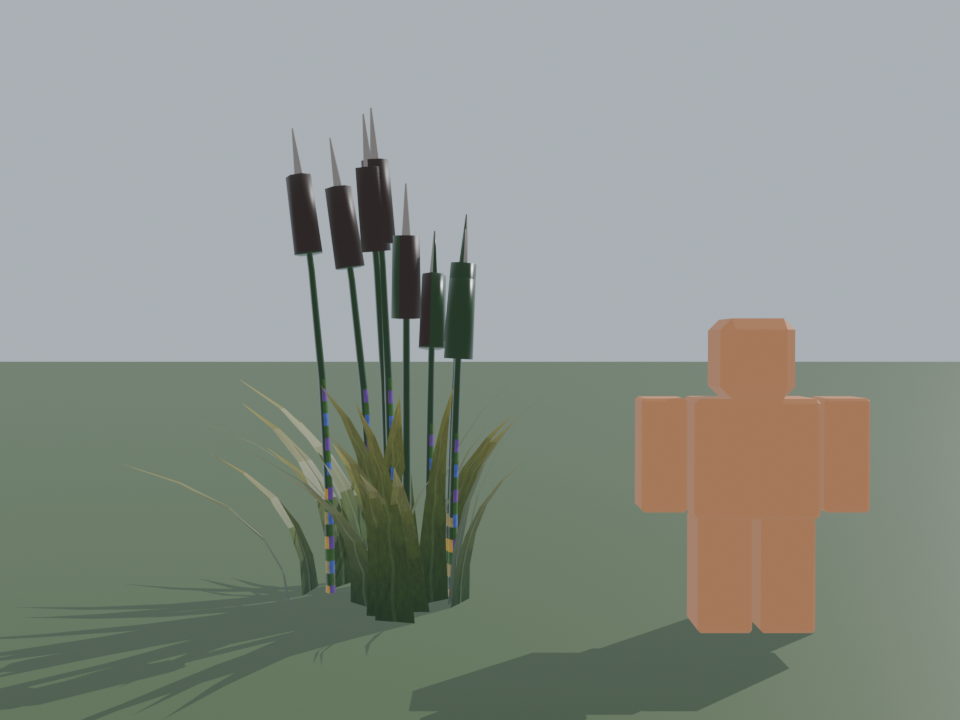
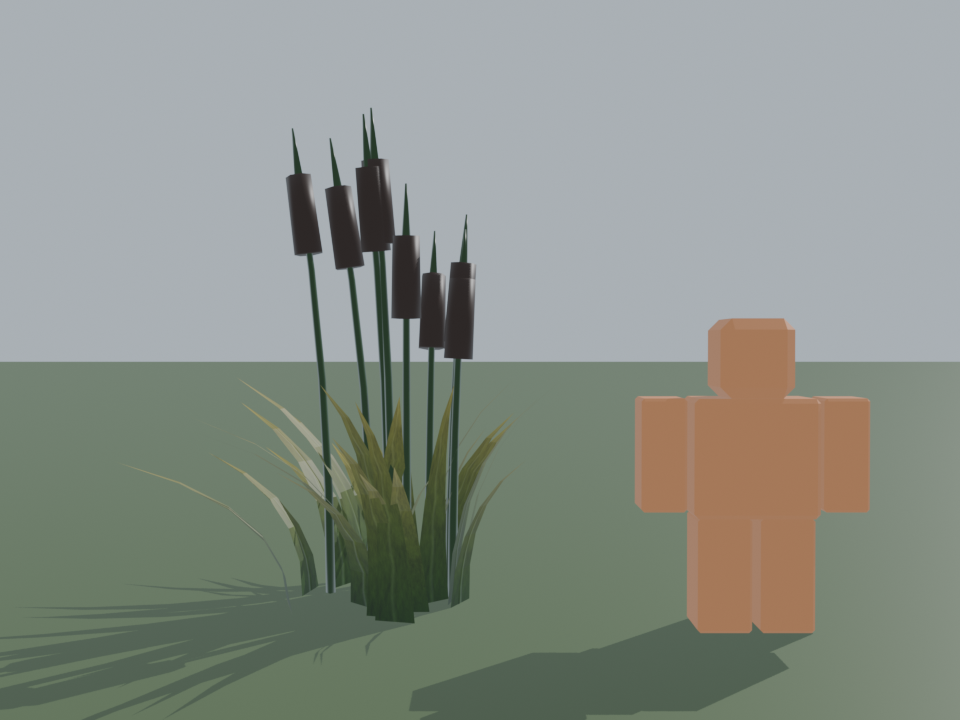
fix(bellwood): preserve reed UV fix and Vesperhold research
Carry over the updated Bellwood vegetation generator, reed preview and notes, and the Vesperhold performance research from the Mac handoff.

diff --git a/tools/blender/overworld/bellwood_veg.py b/tools/blender/overworld/bellwood_veg.py
@@ -158,11 +158,14 @@ def mushroom_mat():
 
 
 # ------------------------------------------------------------------------------------------ helpers
-def paint(bm, n0, uv):
-    """Flat-colour every face created after index n0 from one atlas point."""
+def paint(bm, before, uv):
+    """Flat-colour every face not in `before` (set(bm.faces) taken before the part was built) from one atlas point.
+    Not an index slice: create_cone / create_icosphere free scratch faces, later faces reuse those slots, and bm.faces[n0:]
+    then skipped new faces and hit old ones (Reed_Clump_B heads came out candy-striped with green sleeves)."""
     uvl = _uvl(bm)
-    bm.faces.ensure_lookup_table()
-    for f in bm.faces[n0:]:
+    for f in bm.faces:
+        if f in before:
+            continue
         for l in f.loops:
             l[uvl].uv = uv
 
@@ -523,7 +526,7 @@ def shrub2(name, S, nstems, seed, depth=2, el=(0.85, 1.25), L0=3.4, leafk=1.0, b
             lf(p, ax * math.cos(t) + (e1 * math.cos(ph) + e2 * math.sin(ph)) * math.sin(t), L * rr.uniform(0.75, 1.15))
 
     def berry(c):
-        n0 = len(ber.faces)
+        n0 = set(ber.faces)
         vs = bmesh.ops.create_icosphere(ber, subdivisions=1, radius=0.17 * S + 0.06)["verts"]
         for v in vs:
             v.co += c
@@ -609,7 +612,7 @@ def flowers_daisy():
         h = rng.uniform(2.2, 4.0)
         bend = Vector((math.cos(a), math.sin(a), 0)) * rng.uniform(0.2, 0.7) + WIND * 0.35
         pts = [base + bend * (k / 3) ** 2 * 1.2 + Vector((0, 0, h * k / 3)) for k in range(4)]
-        n0 = len(stems.faces)
+        n0 = set(stems.faces)
         tube(stems, pts, [0.09, 0.08, 0.07, 0.06], sides=4, uvs=1.0)
         paint(stems, n0, PUV("stem"))
         top, d = pts[-1], (pts[-1] - pts[-2]).normalized()
@@ -618,7 +621,7 @@ def flowers_daisy():
         for k in range(9):
             ph = TAU * k / 9
             leaf(bl, top, (e1 * math.cos(ph) + e2 * math.sin(ph)) * 0.95 + d * 0.25, 0.7, 0.34, 0.0, PUV("white"), tex=0.006)
-        n0 = len(bl.faces)
+        n0 = set(bl.faces)
         disc(bl, top + d * 0.05, d, 0.32, sides=8, bulge=0.12)
         paint(bl, n0, PUV("yellow"))
         for _ in range(2):  # basal leaves
@@ -637,7 +640,7 @@ def flowers_foxglove():
         h = rng.uniform(3.8, 6.0)
         bend = Vector((math.cos(a), math.sin(a), 0)) * rng.uniform(0.1, 0.5) + WIND * 0.3
         pts = [base + bend * (k / 4) ** 2 * 1.2 + Vector((0, 0, h * k / 4)) for k in range(5)]
-        n0 = len(stems.faces)
+        n0 = set(stems.faces)
         tube(stems, pts, [0.14, 0.12, 0.1, 0.08, 0.05], sides=5, uvs=1.0)
         paint(stems, n0, PUV("stem"))
         for j in range(14):
@@ -646,7 +649,7 @@ def flowers_foxglove():
             pos = pts[kk].lerp(pts[kk + 1], t * 4 - kk)
             ang = j * 2.4 + i
             out = Vector((math.cos(ang), math.sin(ang), 0))
-            n0 = len(bl.faces)
+            n0 = set(bl.faces)
             cone_at(bl, pos, out * 0.8 - Vector((0, 0, 0.55)), 0.06, 0.3 * (1.0 - 0.35 * t), 0.62, seg=6)
             paint(bl, n0, PUV(rng.choice(("purple", "purple", "pink"))))
         for k in range(8):  # rosette
@@ -798,14 +801,14 @@ def reeds_b():
         base = Vector((math.cos(a) * r, math.sin(a) * r, -0.1))
         bend = Vector((math.cos(a), math.sin(a), 0)) * rr.uniform(0.2, 0.7) + WIND * 0.4
         pts = [base + bend * (k / 4) ** 2 * 1.2 + Vector((0, 0, h * k / 4)) for k in range(5)]
-        n0 = len(hd.faces)
+        n0 = set(hd.faces)
         tube(hd, pts, [0.1, 0.09, 0.08, 0.07, 0.05], sides=4, uvs=1.0)
         paint(hd, n0, PUV("stem"))
         d = (pts[-1] - pts[-2]).normalized()
-        n0 = len(hd.faces)
+        n0 = set(hd.faces)
         cone_at(hd, pts[-1] - d * 1.9, d, 0.3, 0.27, 1.6, seg=7)
         paint(hd, n0, PUV("brown"))
-        n0 = len(hd.faces)
+        n0 = set(hd.faces)
         cone_at(hd, pts[-1] - d * 0.3, d, 0.09, 0.02, 1.0, seg=5)
         paint(hd, n0, PUV("stem"))
     obj("Reed_Clump_B", "Blades", bm, MATS["Bell_Reed"], smooth=True, recalc=False)
@@ -822,7 +825,7 @@ def grass_piece(name, seed, n, hr, wr, spread, br, nseg, seeds=0):
         h = rr.uniform(3.2, 5.0)
         bend = Vector((math.cos(a), math.sin(a), 0)) * rr.uniform(0.3, 0.9) + WIND * 0.4
         pts = [base + bend * (k / 3) ** 2 * 1.2 + Vector((0, 0, h * k / 3)) for k in range(4)]
-        n0 = len(sd.faces)
+        n0 = set(sd.faces)
         tube(sd, pts, [0.05, 0.045, 0.04, 0.03], sides=3, uvs=1.0)
         paint(sd, n0, PUV("straw"))
         d = (pts[-1] - pts[-2]).normalized()
@@ -1036,6 +1039,8 @@ def main():
     wood_end_mat(), moss_mat(), conifer_mat(), bloom_mat(), mushroom_mat()
     sc, cam, ground = setup_render()
     fig = make_figure()
+    if ONLY and (UP / "upload_manifest.json").exists():  # a subset rebuild keeps the other pieces in the upload pack
+        PACK.update(json.loads((UP / "upload_manifest.json").read_text())["pieces"])
     todo = [b for b in BUILD if not ONLY or b[0] in ONLY]
     for name, fn in todo:
         fn()
@@ -1048,7 +1053,8 @@ def main():
         vignettes(sc, cam, ground, fig)
     for o in [o for os_ in PIECES.values() for o in os_]:
         o.hide_render = False
-    bpy.ops.wm.save_as_mainfile(filepath=str(OUT / "bellwood_veg_kit.blend"), compress=True)
+    if not ONLY:  # a subset scene would overwrite the whole-kit .blend
+        bpy.ops.wm.save_as_mainfile(filepath=str(OUT / "bellwood_veg_kit.blend"), compress=True)
     print("VEG_OK", len(PACK), "pieces", flush=True)
 
 

diff --git a/outputs/research-2026-11-26/vesperhold-60fps-options.md b/outputs/research-2026-11-26/vesperhold-60fps-options.md
@@ -1,0 +1,119 @@
+# Vesperhold 60 fps: how others solve each frame-time cost (2026-11-26, research only)
+
+Scope: research only. No code was changed. Sources were read on 2026-11-26; Roblox changes often, so each one carries its date. "User report" means a non-staff DevForum post.
+
+**Numbers already in the repo:**
+- **mac-98, gate eye (-2930, 672, -6400), QualityLevel 21:** 3.29M shadow tris and 207 shadow draws; 3.33M opaque tris and 170 opaque draws; 516 draws in total.
+- **win-86 (Windows Studio):** approach GPU time fell from 10.4 ms to 7.8 ms; the gate stays at about 10 ms.
+- **win-68:** the pilgrim road drew 8.9M tris at 65 ms a frame. The silhouette at 1,630 studs took **386 draws** for 0.52M tris.
+- **This MacBook:** Studio runs at about 15 fps, and `RenderGPUFrameTime` reads 0. No real client and no phone has been measured yet.
+
+## 1. Shadow-casting triangles
+- **(a) Measured:** the shadow pass still costs about as much as the opaque pass: 3.29M tris against 3.33M at the gate. Only `__Stone` and `__Tracery` still cast (win-91).
+- **(b) How others handle it:**
+  - Roblox's guide says to turn off `CastShadow` on small or distant parts, and that shadows switch off below quality 4 ([Improve performance](https://create.roblox.com/docs/performance-optimization/improve), current docs).
+  - Occlusion culling does **not** cull shadow casters ([staff post, Dec 2024, updated Jun 2025](https://devforum.roblox.com/t/occlusion-culling-now-live-in-roblox-client/3300953)). So for the shadow pass, trimming casters is the only lever.
+  - The sun casts one shadow draw per cascade for each caster ([user report, Nov 2025 to Jan 2026](https://devforum.roblox.com/t/shadow-draw-calls-are-broken/4045934)).
+  - Unreal and Unity likewise keep shadows on hero geometry only and let fine detail rely on contact shading or AO in its maps.
+- **(c) Smallest change:** first measure shadow tris by role at the gate. If `Tracery` is a large share, add `sub.Role == "Tracery"` to the win-91 line in `VesperholdKit.place` (`src/server/Services/VesperholdKit.luau`). Update the `small` role check in `tools/test_vesperhold_loader.luau` (lines 197-198) to match. A finer option keeps Tracery shadows only on `Portal*` pieces, the hero gate.
+- **(d) Gain and risk:**
+  - Gain: the shadow pass loses the Tracery share of 3.29M tris and draws. This is GPU time, and GPU is the Mac's bottleneck (CPU is about 5 ms).
+  - Visual risk: lattice shadows disappear from walls under a low sun. In storm or night grading they are faint already.
+- **(e) Verify:** at the gate eye with QualityLevel 21, record shadow tris and draws from the Render Stats (Shift+F2) panel before and after. Take a side-by-side capture against `captures/mac/vesp-dropout-2026-11-25/06`.
+
+## 2. Real lights (Future lighting)
+- **(a) Measured:** nothing. In code, `Kit.MaxLights = 80`: every Glass and Flame sub gets a shadowless PointLight (range 9-14). `LandscapeBudget.register` range-culls PointLights only under `Sanctuary`, so the Vesperhold kit lights under `Map_Overworld` are never turned off.
+- **(b) How others handle it:**
+  - Roblox: use fewer lights, limit their range, and turn off `Light.Shadows` ([Improve performance](https://create.roblox.com/docs/performance-optimization/improve)).
+  - Roblox staff say most of Future's cost is re-rendering light shadows near moving objects ([DevForum, 2025](https://devforum.roblox.com/t/severe-fps-drops-due-to-aggressive-shadow-recalculations-during-object-movementappearance/3875739); summarised by a search, thread not opened).
+  - win-86 research: about 8 lights per view, with every other glow faked by Neon or emissive maps. The Neon glass already glows without its light.
+- **(c) Smallest change:** in `LandscapeBudget.register` (`src/client/Controllers/LandscapeBudget.luau`), also register PointLights whose part is a Vesperhold kit sub. For example, test `item:FindFirstAncestor("Vesperhold")` next to `root.Name == "Sanctuary"`. The existing 110 / 64-stud range logic and the `LandscapeActiveLights` attribute then apply.
+- **(d) Gain and risk:**
+  - Gain: unknown. The lights are shadowless, so expect a small CPU saving (LightGrid) and little on the GPU.
+  - Visual risk: very low. A range-14 light 110 studs away lights nothing you can see, and the Neon stays lit.
+- **(e) Verify:** at the gate and approach, compare `LandscapeActiveLights` with the number of lights. Check the MicroProfiler `computeLightingPerform` and `LightGridCPU` timings before and after, and compare captures.
+
+## 3. Draw calls from many MeshParts (instancing)
+- **(a) Measured:** 290 unique MeshIds across 51 pieces. Maps are already shared well: the Stone subs of 30 pieces use 2 ColorMaps, and Frost and Crockets use 1 each.
+- **(b) How others handle it:** identical MeshContent with an identical SurfaceAppearance shares one draw call. Uploading the same mesh twice under different ids breaks this ([Improve performance](https://create.roblox.com/docs/performance-optimization/improve)). Batching is grouped by spatial cluster ([staff, 2017, may be outdated](https://devforum.roblox.com/t/part-instancing-pre-release-announcement/130333)).
+- **(c) Change:** none needed. `AsuraStoneFinish` clones one template per ColorMap, so instancing is kept. To guard it, run the docs' duplicate-MeshId script once in Play.
+- **(d) Gain and risk:** none expected.
+- **(e) Verify:** draws per view against the count of unique (MeshId, finish) pairs in view.
+
+## 4. Far draw units: SLIM, HLOD, impostors
+- **(a) Measured:** 386 draws for the silhouette at 1,630 studs. The four `FAR` groups (Spire, Rose, Lancet, Portal) are Persistent, and win-86 counted 274 Persistent kit models.
+- **(b) How others handle it:**
+  - **SLIM** ([docs](https://create.roblox.com/docs/workspace/streaming/slim); [announcement, 5 Dec 2025](https://about.roblox.com/newsroom/2025/12/introducing-roblox-slim-scalable-lightweight-interactive-models)):
+    - It builds a composited, multi-LOD stand-in in the cloud. The stand-in is drawn when a model streams out, and "when more efficient" even while it is streamed in.
+    - Roblox's sample scene went from 2,402 to 1,454 draws, but that number mixes streaming and SLIM.
+    - Requirements: StreamingEnabled, a place saved to Roblox, Team Create, and static models only. Runtime property changes break it.
+    - There is a [user report of a slowdown in large places](https://devforum.roblox.com/t/slim-scalable-lightweight-interactive-models-causes-major-performance-degradation-in-large-experience-with-updateinstancedclusters2/4070199).
+  - **Unreal HLOD** merges many static meshes into one proxy mesh and material at long range ([Epic docs](https://dev.epicgames.com/documentation/en-us/unreal-engine/hierarchical-level-of-detail-in-unreal-engine)).
+  - Roblox says to use `Persistent` only "in very rare circumstances" ([Streaming docs](https://create.roblox.com/docs/workspace/streaming)).
+- **(c) Smallest step:** a yes/no SLIM pilot before any refactor.
+  - Two open questions for this repo:
+    - The castle is built at runtime by `GothicCitadel.build`, and SLIM may need a model authored in Studio.
+    - `LandscapeBudget` writes `Transparency = 1` to Crockets and Tracery at runtime, which breaks the static rule.
+  - The pilot: in Development Edit, place one `Spire` with `VesperholdKit.place`, set `LevelOfDetail = SLIM`, save, and Play.
+  - Also try setting `LevelOfDetail` from a server script. If that works, `kitMesh` in `src/server/Services/GothicCitadel.luau` needs one line.
+  - If SLIM fails, use the existing authored-HLOD path: a baked far shell per tier, tagged `OverworldLandmarkFar` with `FarBeyond`, which `LandscapeBudget` already swaps. Then drop the kit's Persistent flag.
+- **(d) Gain and risk:**
+  - Gain: fewer far draws, and fewer distant visible objects, which also helps view distance (section 6).
+  - Visual risk: SLIM lowers texture resolution at range and may shift UVs.
+- **(e) Verify:** TranscoderStatus, then the LOD tint mode in Studio Visualization Options. Compare draws and tris at the 1,630-stud eye.
+
+## 5. RenderFidelity
+- **(a) Measured:** not measured. mac-98 forced Precise and saw no change in the dropout.
+- **(b) Roblox docs:** Automatic, the default, renders highest detail under 250 studs, medium from 250 to 500, and lowest beyond 500. Too many Precise meshes is a common problem ([Meshes](https://create.roblox.com/docs/parts/meshes), [Improve performance](https://create.roblox.com/docs/performance-optimization/improve)).
+- **(c) Change:** count `RenderFidelity` across kit MeshParts in Play. Act only if some are Precise. `collisionTemplate` already passes `RenderFidelity` to `CreateMeshPartAsync`, but scripts cannot set the property directly.
+- **(d) and (e):** only if Precise is found. Then compare far tris.
+
+## 6. "Automatic quality drops view distance" (mac-98)
+- **(a) Measured:** at low fps, Automatic quality clips the drawn world along 128-stud chunks. QualityLevel 21 restored it.
+- **(b) How others handle it:**
+  - Roblox gives no script control. A user report says a counter of visible objects lowers render distance, to as little as 200 studs at level 1 ([Apr 2025, no staff reply](https://devforum.roblox.com/t/improve-or-prioritize-render-distance-at-low-graphics-levels/3596299)).
+  - The levers are frame time and fewer visible objects at range (section 4). Fog hides the cut.
+- **(c) Change:** none on its own. The win comes from sections 1 and 4.
+- **(e) Verify:** in a real client on Automatic at the approach eye, check whether the crown row is fully drawn.
+
+## 7. Occlusion culling
+- **(b) How Roblox handles it:** automatic on all platforms since 27 Jan 2025, and terrain has occluded since 23 Jun 2025. Large, simple, opaque geometry occludes best. Small or detailed meshes do not occlude. The Haunt's low-end Android frame time improved by about 33% ([staff post](https://devforum.roblox.com/t/occlusion-culling-now-live-in-roblox-client/3300953)).
+- **(c) Change:** none. Keep `Massing` boxes opaque and large: they are the castle's occluders, as mac-98 saw with the arcades. Never make them transparent to hide the "slab".
+- **(e) Verify:** Studio wireframe view inside the close (win-68 view 06).
+
+## 8. Fog and atmosphere to hide distance
+- **(b) How others handle it:**
+  - Atmosphere Density hides distant objects and terrain ([guide](https://create.roblox.com/docs/environment/atmosphere)).
+  - Fog does not cull anything; it hides pop-in for nearly free ([user report](https://devforum.roblox.com/t/lighting-realistic-fog-visibility/295818)).
+  - The research of 2026-11-25 shows Grand Soul and Elden Ring relying on fog.
+- **(c) Change:** only after section 4. Tune the Vesperhold snow profile in `src/shared/EnvironmentProfiles.luau` (`Snow.Density` 0.18) so the far-shell swap point sits inside the haze.
+- **(d) Gain and risk:** no frame-time gain. Risk: the skyline reads less clearly.
+
+## 9. SurfaceAppearance texture memory
+- **(a) Measured:** the registry holds 244 unique 2048 maps (81 Color, 79 Normal, 79 Roughness, 5 Metalness), most on trees and figures. Persistent FAR models keep their maps resident.
+- **(b) Roblox docs:**
+  - Memory is set by pixel size, not file size. A 1024 map uses four times the memory of a 512.
+  - Uploading the same image twice duplicates it in memory.
+  - Reuse maps and tint with `SurfaceAppearance.Color` ([Improve performance](https://create.roblox.com/docs/performance-optimization/improve)).
+- **(c) Change:** none that lowers resolution: the creator's 2048 rule stands. Keep sharing tiling maps across pieces, as the architecture already does.
+- **(e) Verify:** Developer Console, Memory, `GraphicsTexture` at the approach, on a real client and a phone.
+
+## Ranked shortlist (each small and verifiable)
+1. **Per-role shadow tris, then Tracery `CastShadow`.**
+   - Measure shadow tris by role at the gate.
+   - If Tracery is a large share, extend the win-91 line in `VesperholdKit.place` and the loader test.
+   - Accept only if the captures match. It is the largest remaining GPU line, and the diff is one line.
+2. **Range-cull the Vesperhold kit PointLights** in `LandscapeBudget.register`.
+   - Pass check: `LandscapeActiveLights` stays at or under about 8 at the gate.
+   - Check the MicroProfiler before and after.
+   - Lowest risk of the three.
+3. **SLIM yes/no pilot on one Spire** in the Development place.
+   - Confirm SLIM in the TranscoderStatus and LOD tints, then compare draws at 1,630 studs.
+   - Find out whether `LevelOfDetail` can be set from a script.
+   - The result decides between SLIM and an authored far shell under `OverworldLandmarkFar`.
+
+## Still to measure
+- **Real frame times.** Every frame time so far is Studio-only: the Windows window was unfocused and the Mac reads GPU 0. Run a real Roblox Player at the approach and gate eyes, with Automatic quality and the MicroProfiler.
+- **The quality level Automatic picks**, and whether the crown clip still happens in a real client.
+- **Remaining unknowns:** shadow tris by role, the RenderFidelity spread, `GraphicsTexture` MB, and PointLights in view.
+- **A phone at Vesperhold.** The 60 fps floor cannot be called met until one is profiled.

diff --git a/outputs/claude-open-world-2026-11-14/workers/21a-bell-veg.md b/outputs/claude-open-world-2026-11-14/workers/21a-bell-veg.md
@@ -48,3 +48,4 @@ Grass: Grass_Tall, Grass_Lush, Grass_Seed
 - Grass_Tall: sub-meshes {"Grass_Tall__Blades": 490}; tris 490; size [6.39, 4.93, 6.17] studs; GLB 82 KB; render outputs/claude-open-world-2026-11-14/captures/kit/bellwood_veg/eye_Grass_Tall.png
 - Grass_Lush: sub-meshes {"Grass_Lush__Blades": 450}; tris 450; size [6.42, 2.27, 5.71] studs; GLB 80 KB; render outputs/claude-open-world-2026-11-14/captures/kit/bellwood_veg/eye_Grass_Lush.png
 - Grass_Seed: sub-meshes {"Grass_Seed__Blades": 336, "Grass_Seed__Seeds": 768}; tris 1104; size [5.62, 5.38, 5.84] studs; GLB 379 KB; render outputs/claude-open-world-2026-11-14/captures/kit/bellwood_veg/eye_Grass_Seed.png
+- Reed_Clump_B: sub-meshes {"Reed_Clump_B__Blades": 270, "Reed_Clump_B__Heads": 608}; tris 878; size [8.26, 9.69, 8.05] studs; GLB 336 KB; render outputs/claude-open-world-2026-11-14/captures/kit/bellwood_veg/eye_Reed_Clump_B.png
